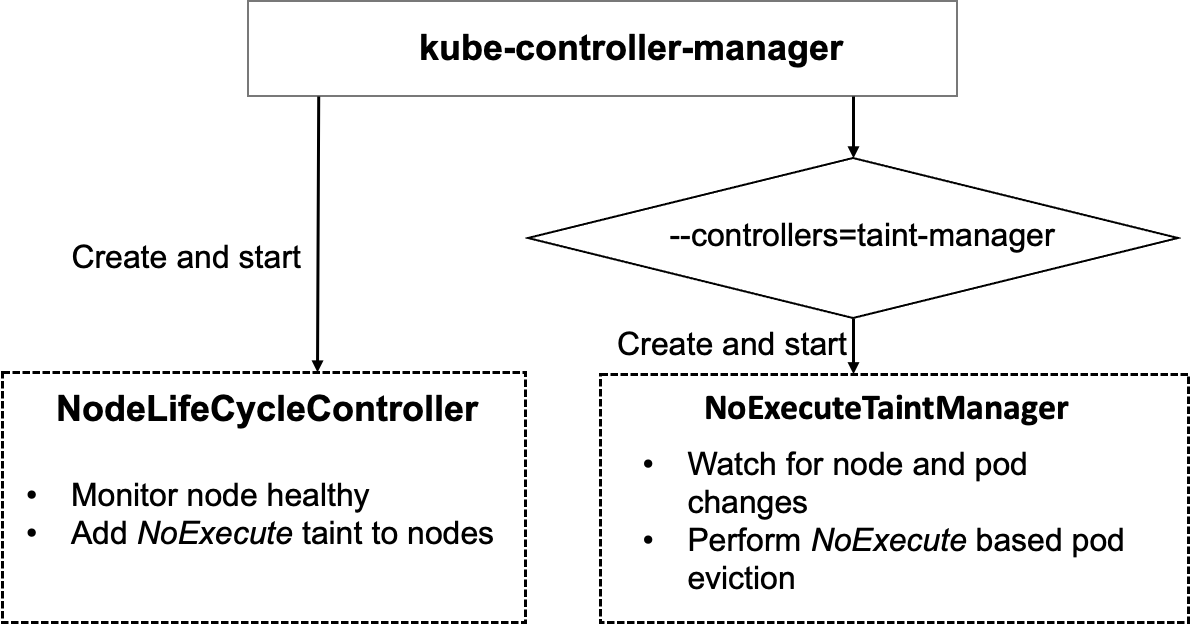
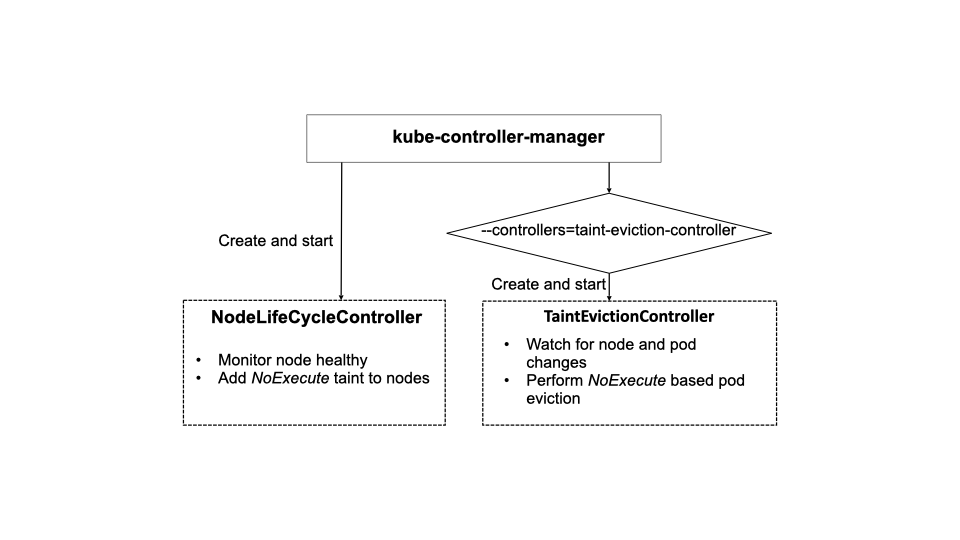
KEP-3902: update images and address further review comments from implementation

diff --git a/keps/sig-scheduling/3902-decoupled-taint-manager/README.md b/keps/sig-scheduling/3902-decoupled-taint-manager/README.md
@@ -213,7 +213,7 @@ This section must be completed when targeting beta to a release.
 This is an opt-in feature, and it does not change any default behavior. Unless there is a bug in the implementation, a  rollout can not fail. If a rollout does fail, running workloads will not be evicted properly on tainted nodes. We don't except a rollback can fail.
 
 ###### What specific metrics should inform a rollback?
-A significantly changing number of pod evictions (`taint_manager_pod_evictions_total`) and/or a substantial increase in pod eviction latency (`taint_manager_pod_eviction_latency`) in Kubernetes.
+A significantly changing number of pod evictions (`taint_eviction_controller_pod_evictions_total`) and/or a substantial increase in pod eviction latency (`taint_eviction_controller_pod_deletion_duration_seconds`) in Kubernetes.
 
 ###### Were upgrade and rollback tested? Was the upgrade->downgrade->upgrade path tested?
 The upgrade will be tested in the planned unit and e2e tests. The rollback and upgrade-downgrade-upgrade path will
@@ -238,7 +238,7 @@ The performance of node taint-based eviction should remain the same level as bef
 The metrics for both `NodeLifecycleController` and `TaintEvictionController`'s queues should stay the same levels as before, the number of pod evictions and pod eviction latency.
 
 - [X] Metrics
-  - Metric name: `taint_eviction_controller_pod_evictions_total`, `taint_eviction_controller_pod_eviction_latency`
+  - Metric name: `taint_eviction_controller_pod_evictions_total`, `taint_eviction_controller_pod_deletion_duration_seconds`
   - Components exposing the metric: `kube-controller-manager`
 
 ###### Are there any missing metrics that would be useful to have to improve observability of this feature?
